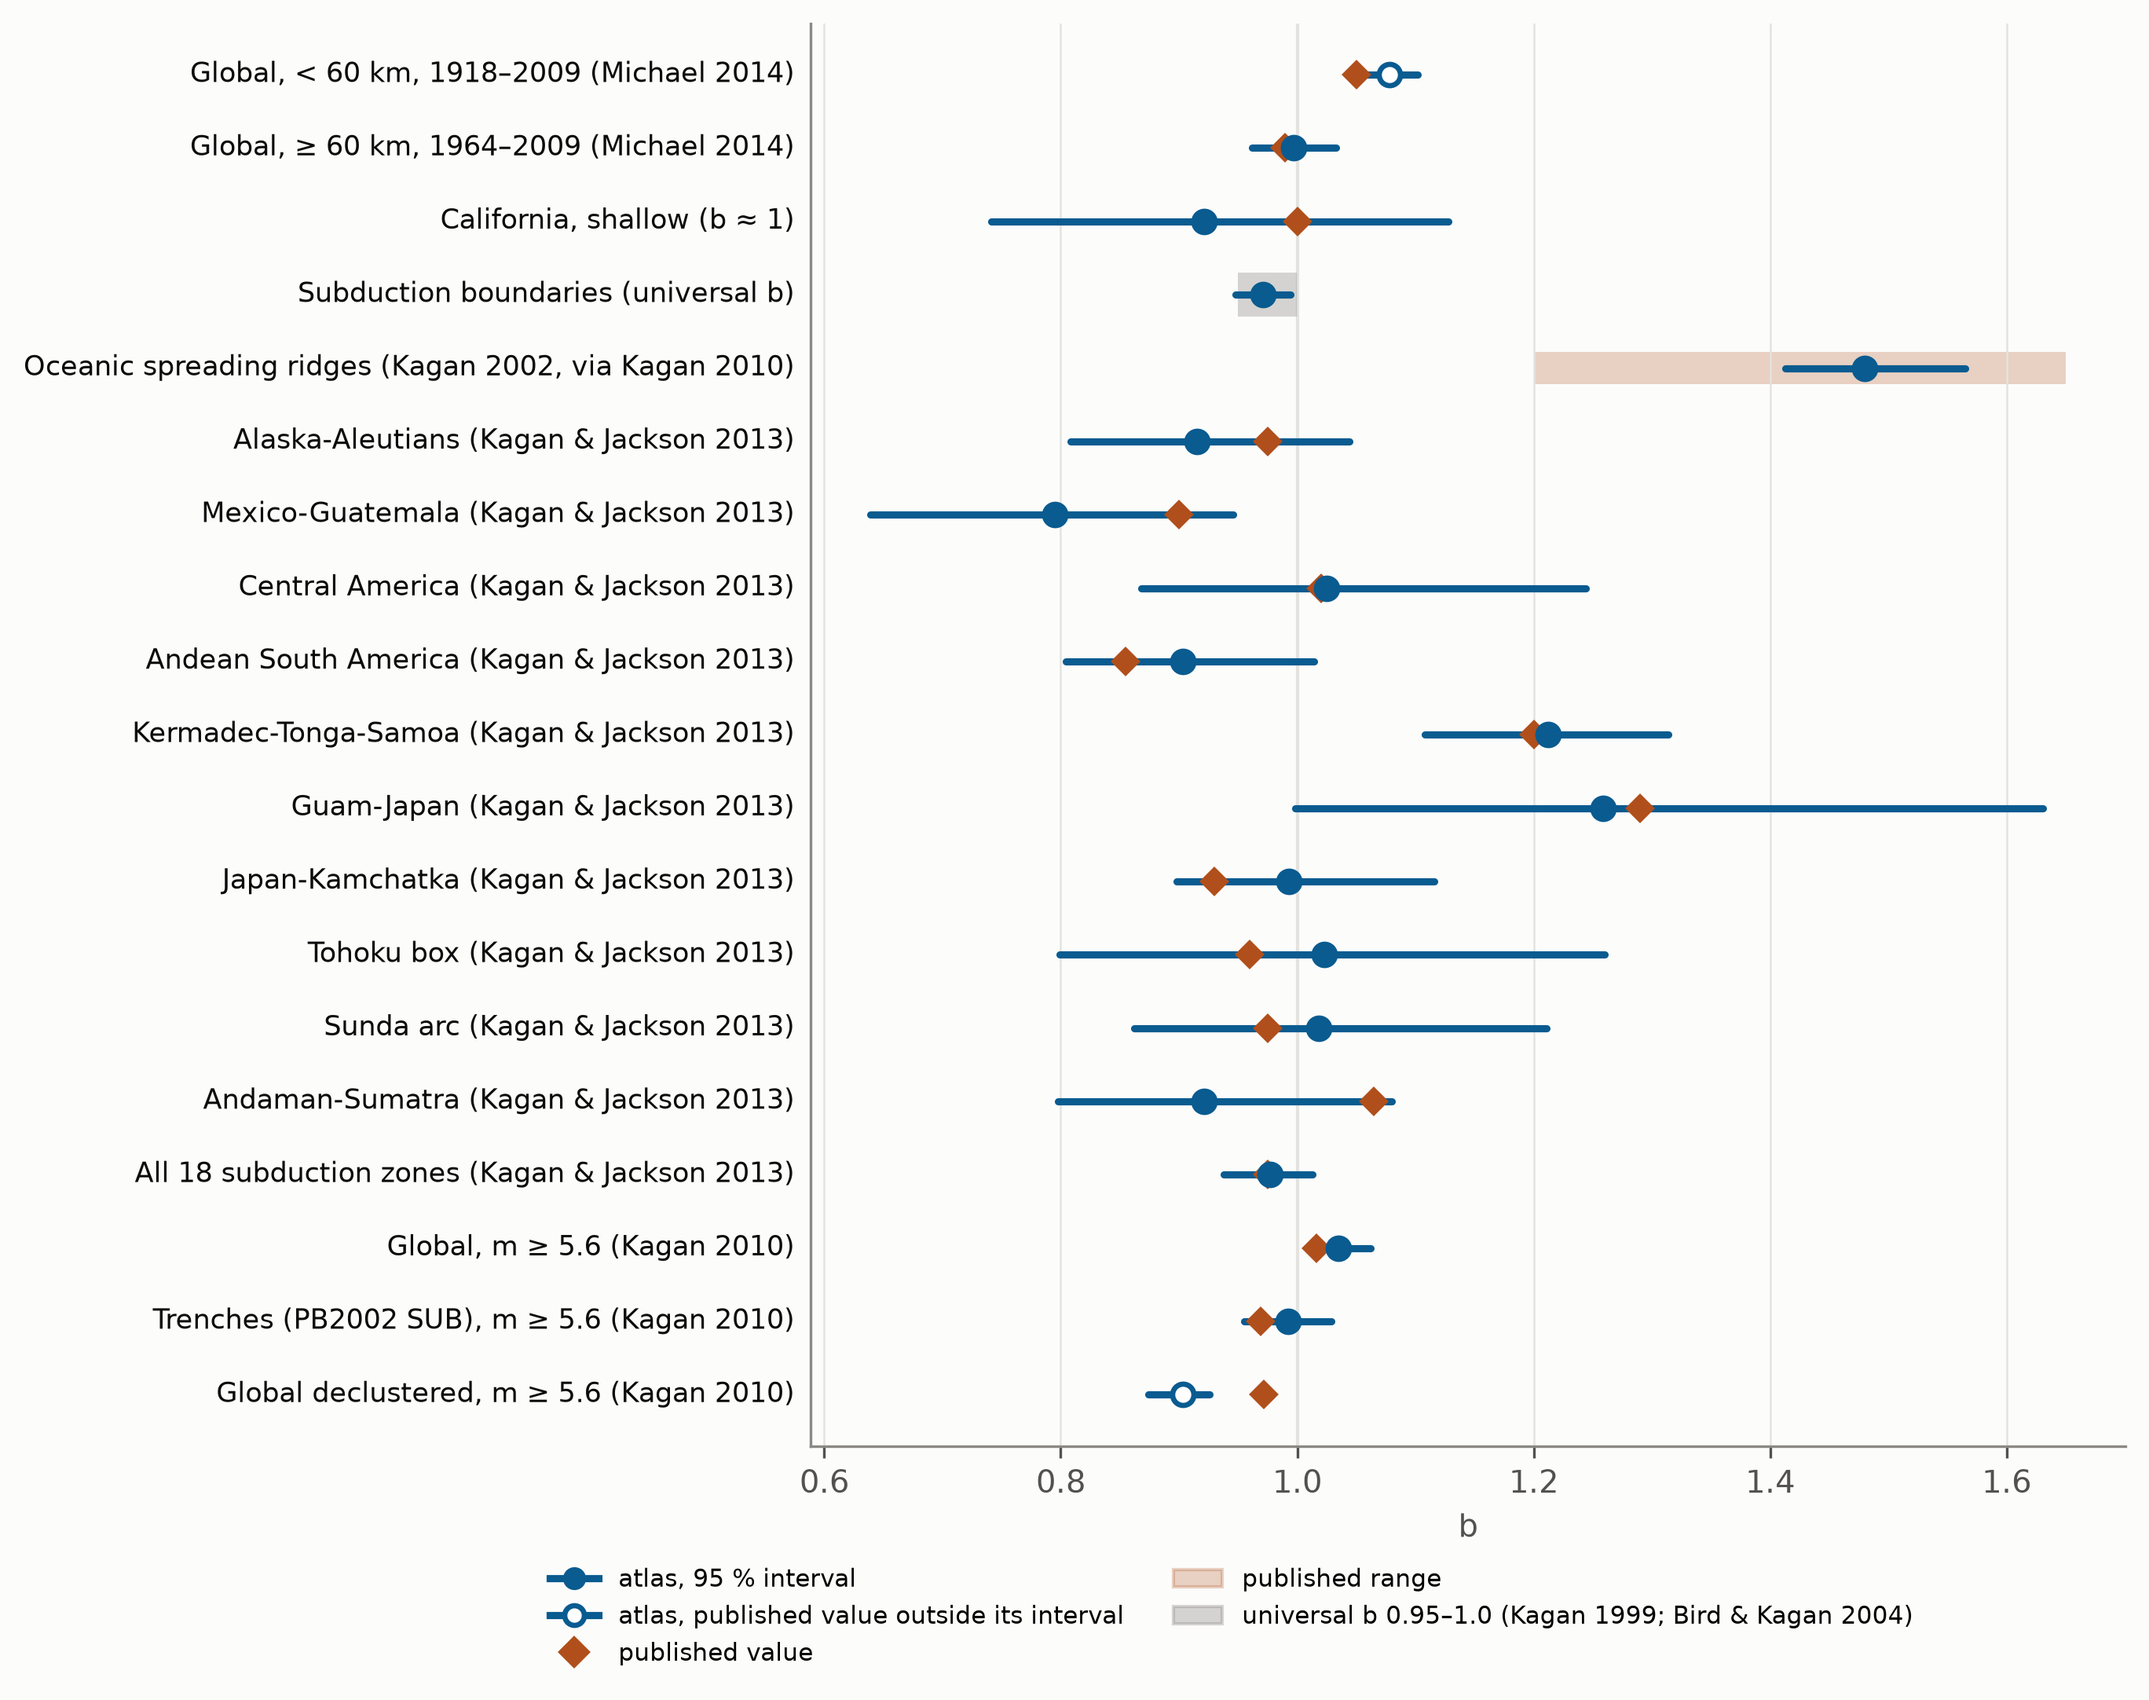
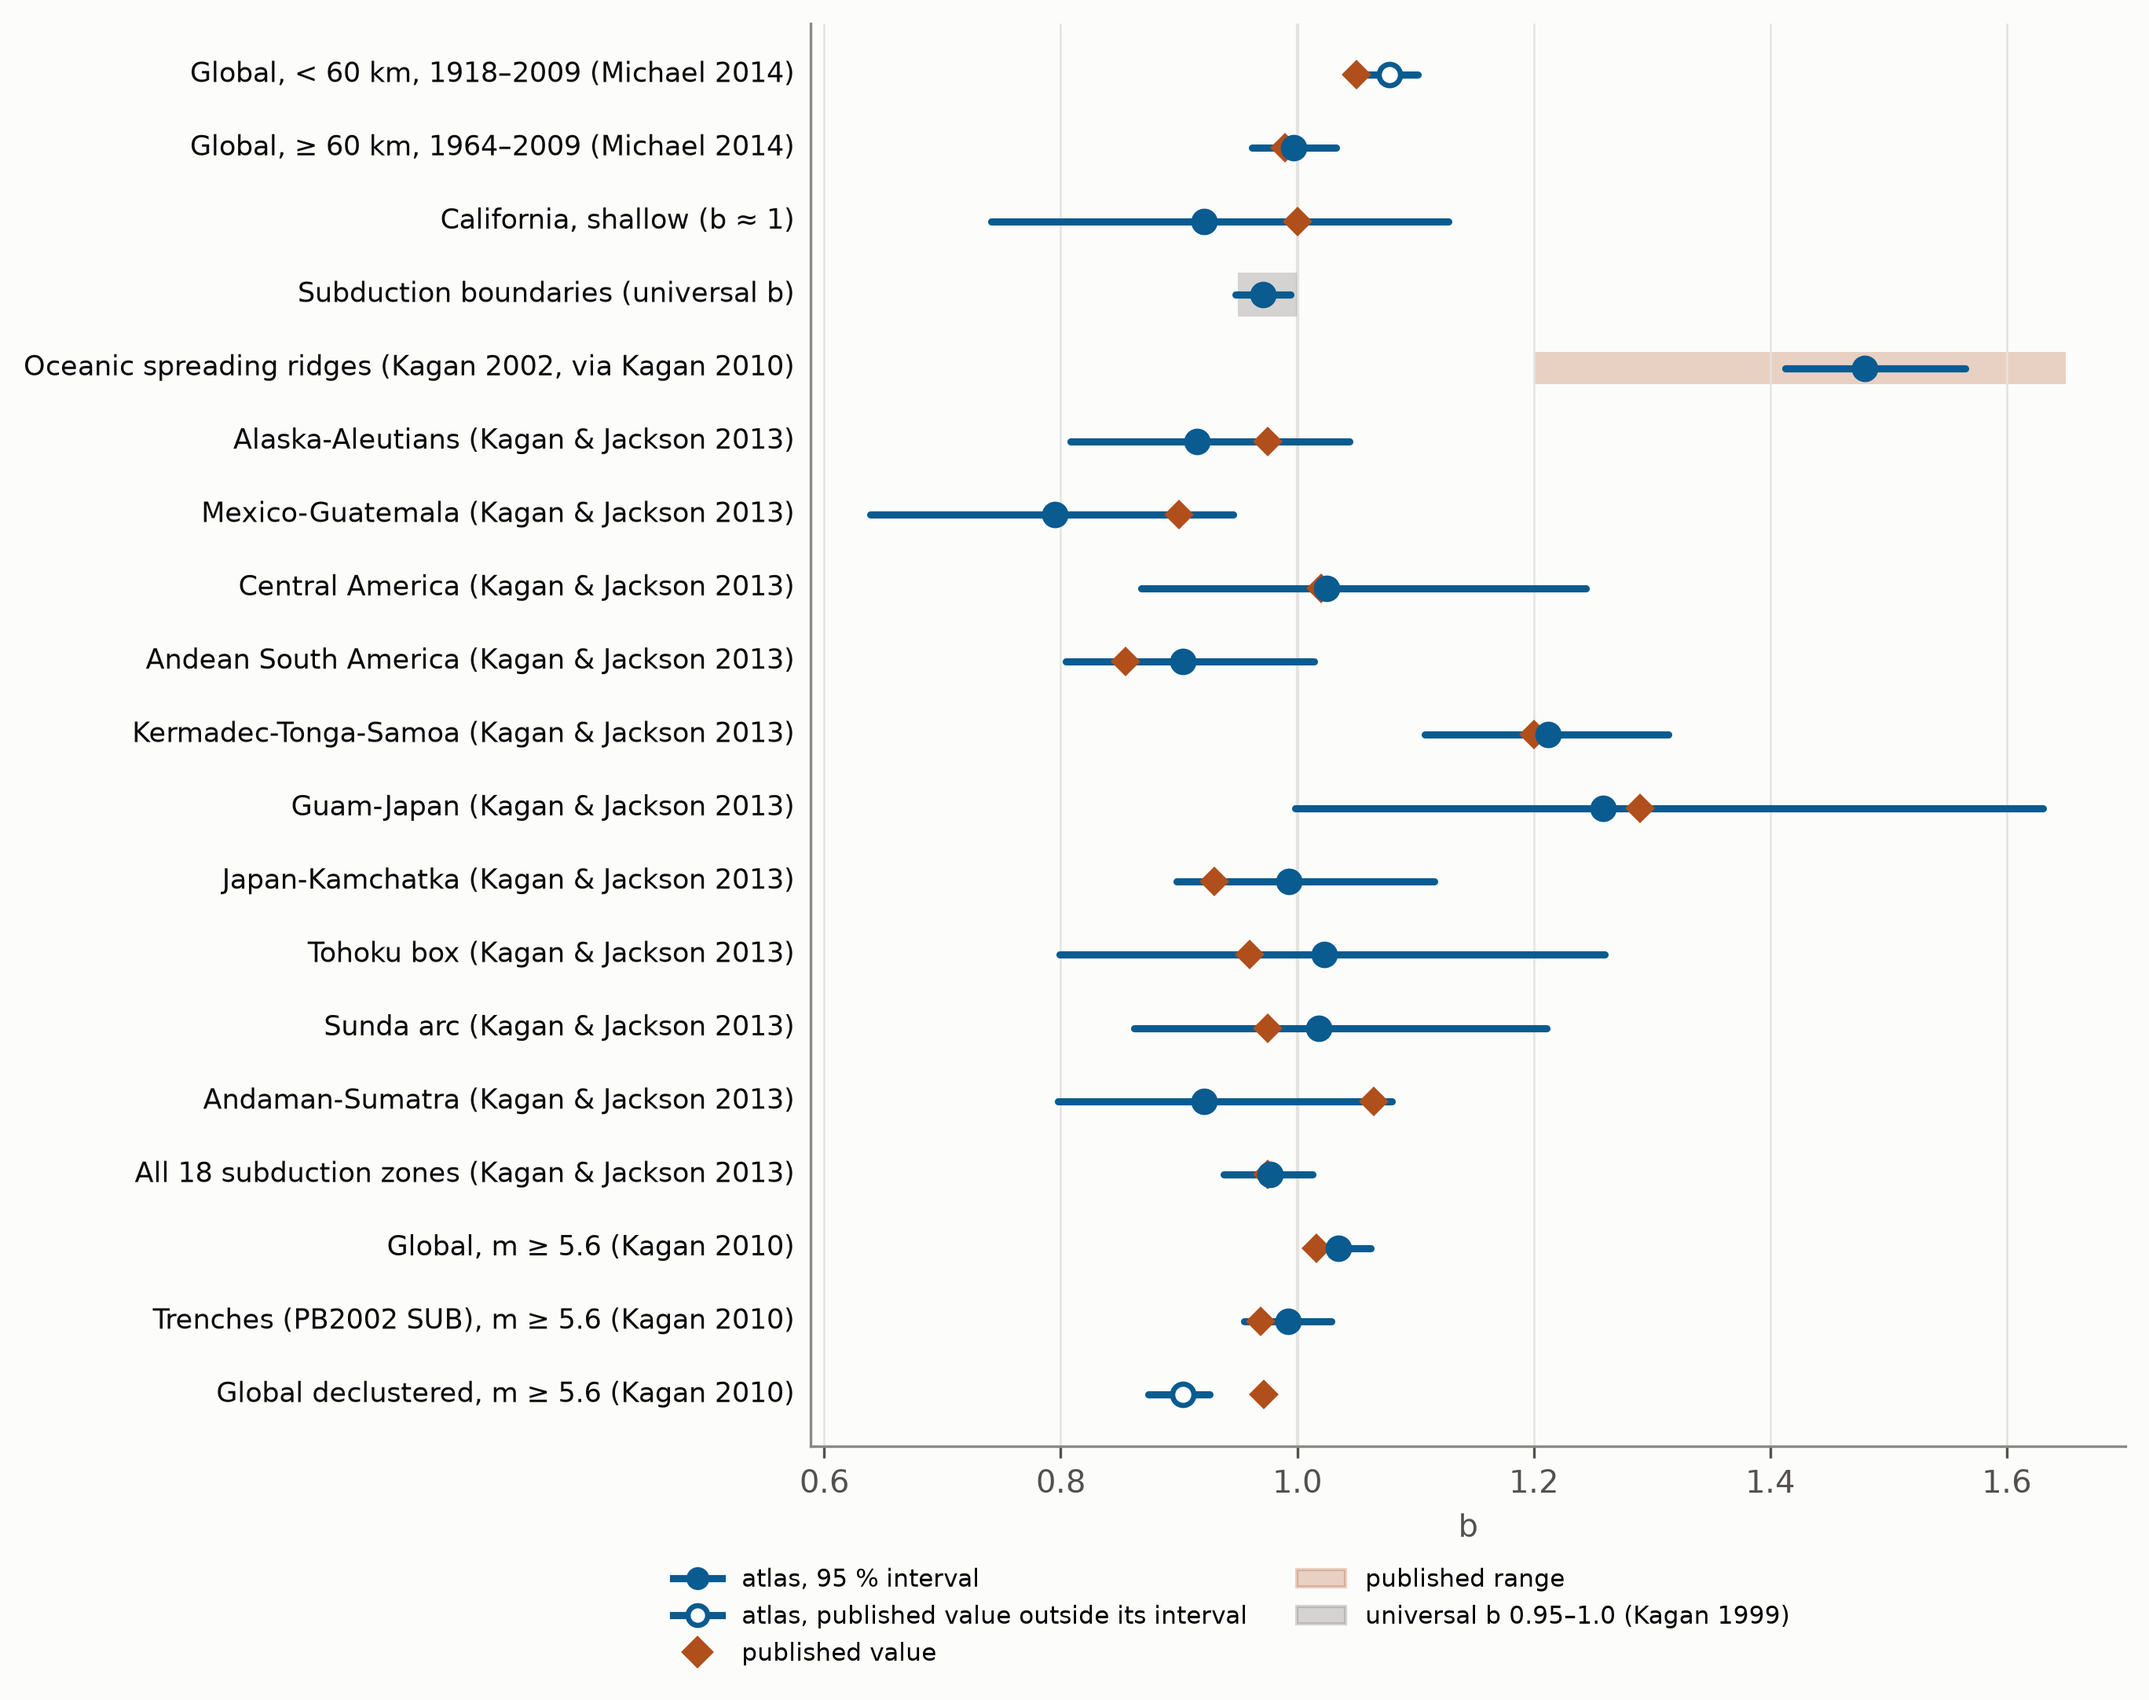
Literature values: source pages, periods, estimators and declustering method filled in after re-reading the PDFs; Bird & Kagan Table 5 per-class beta; universal-b band attributed to Kagan (1999) only

Changed region(s): [[0.2485, 0.8979, 0.8699, 0.9908]]

diff --git a/scripts/paper_figures.py b/scripts/paper_figures.py
@@ -106,7 +106,7 @@ def b_map(d):
 
 # ----------------------------------------------------------------------------------------------- 3: validation
 NUM = r"(\d+(?:\.\d+)?)"
-UNIVERSAL_B = (0.95, 1.0)   # universal b of shallow earthquakes (Kagan 1999; Bird & Kagan 2004), beta 0.63-0.67 x 1.5
+UNIVERSAL_B = (0.95, 1.0)   # universal b of shallow earthquakes, beta 0.63-0.67 x 1.5 (Kagan 1999, as cited; Bird & Kagan 2004 give 0.61-0.66)
 KJ2013 = {"fe01": "Alaska-Aleutians", "fe05": "Mexico-Guatemala", "fe06": "Central America", "fe08": "Andean South America",
           "fe12": "Kermadec-Tonga-Samoa", "fe18": "Guam-Japan", "fe19": "Japan-Kamchatka", "fe24": "Sunda arc",
           "fe46": "Andaman-Sumatra", "tohoku": "Tohoku box", "all": "All 18 subduction zones"}
@@ -181,7 +181,7 @@ def validation():
                                   label="atlas, published value outside its interval"),
                        plt.Line2D([], [], color=C_HIGH, marker="D", lw=0, label="published value"),
                        Patch(color=C_HIGH, alpha=0.25, label="published range"),
-                       Patch(color=MUTED, alpha=0.35, label="universal b 0.95–1.0 (Kagan 1999; Bird & Kagan 2004)")],
+                       Patch(color=MUTED, alpha=0.35, label="universal b 0.95–1.0 (Kagan 1999)")],
               loc="upper center", bbox_to_anchor=(0.32, -0.07), ncol=2, fontsize=7.5, frameon=False)
     save(fig, "validation_b")
 
